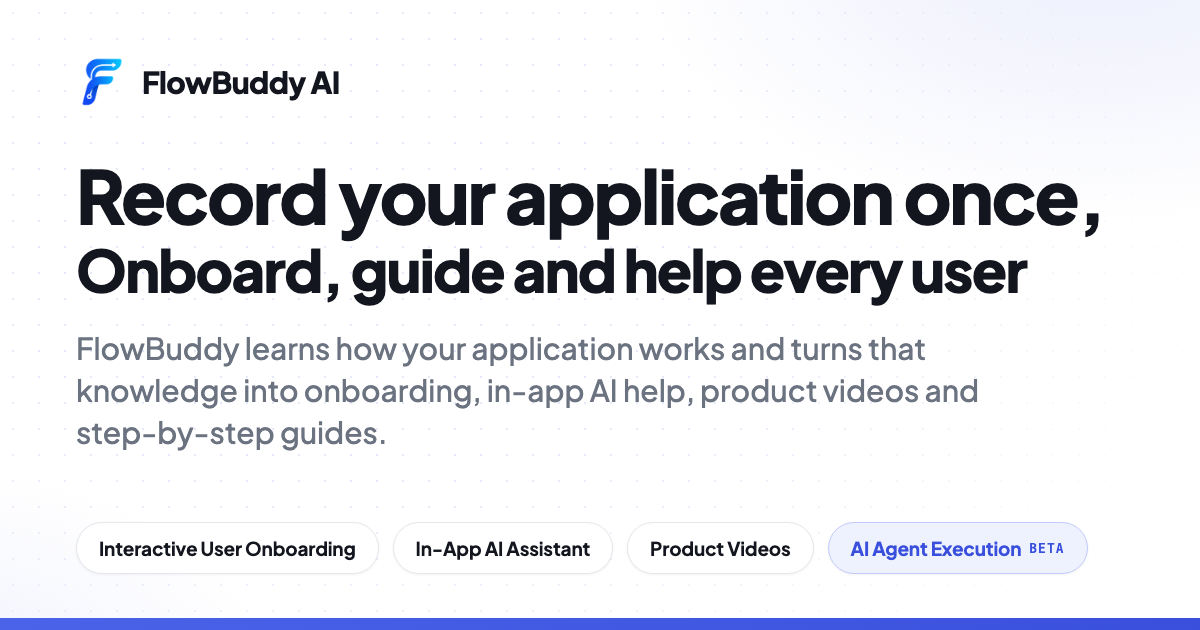
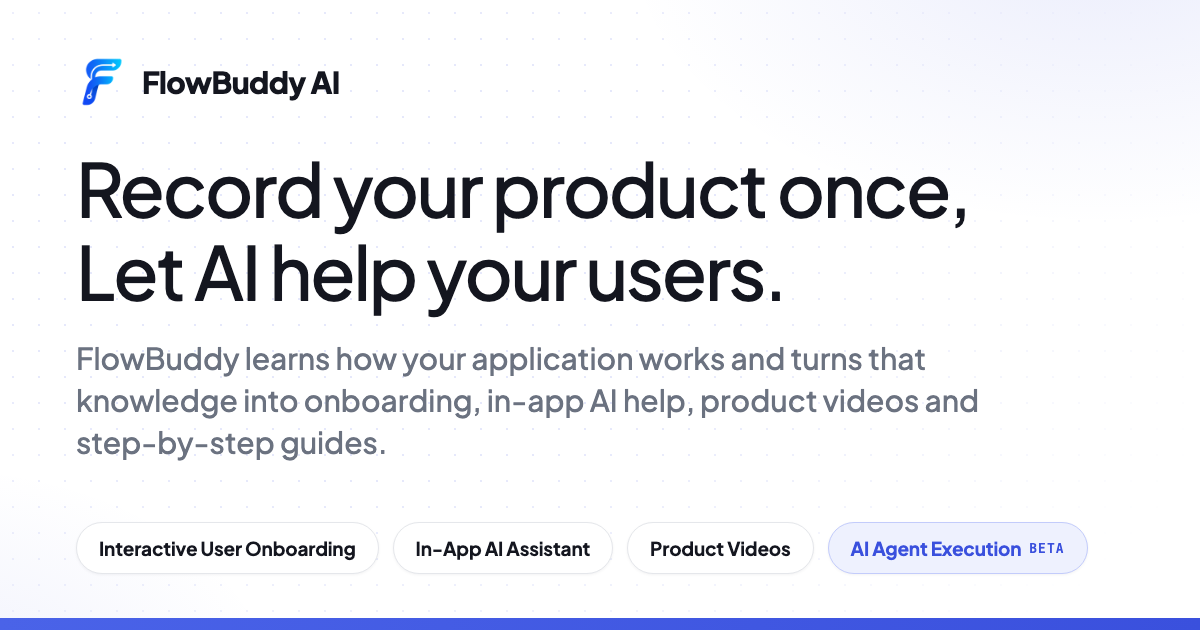
feat(landing): final hero claim, lighter type system, floating capsule header
Hero locks at "Record your product once, / Let AI help your users." —
both lines equal size in the new medium-weight editorial type, which now
runs through every heading site-wide (display classes, card titles, FAQ
rows, CTA panel; mono labels, buttons and product mocks keep their
weight). The header is flat at the top of the page and becomes a
floating rounded capsule once scrolled (pure CSS states + a scroll
toggle; stage-header sticky offsets bumped to clear it). Nav links
dropped from the header; the sparkle "See it in action" widget button
becomes a plain "How it works" section link. Lifecycle stage headers
trimmed to badge + title. SEO/GEO synced: og.png re-rendered in the new
type, meta/llms.txt/alts on the final claim, sitemap lastmods bumped
site-wide.

Changed region(s): [[0.0617, 0.2413, 0.925, 0.5127], [0.0617, 0.5127, 0.8325, 0.7238]]

diff --git a/packages/landing/src/styles/global.css b/packages/landing/src/styles/global.css
@@ -89,20 +89,49 @@ body {
   border-radius: var(--radius-control);
 }
 
+/* ---- Header: flat at the top, floating capsule once scrolled ----------- */
+.fb-header {
+  transition: padding 220ms cubic-bezier(0.2, 0.7, 0.3, 1);
+}
+.fb-headbar {
+  transition:
+    background-color 220ms cubic-bezier(0.2, 0.7, 0.3, 1),
+    border-color 220ms cubic-bezier(0.2, 0.7, 0.3, 1),
+    box-shadow 220ms cubic-bezier(0.2, 0.7, 0.3, 1),
+    border-radius 220ms cubic-bezier(0.2, 0.7, 0.3, 1);
+}
+.fb-header.is-top {
+  padding: 0; /* content realigns with the page's own 1140px column */
+}
+.fb-header.is-top .fb-headbar {
+  border-radius: 0;
+  border-color: transparent;
+  background-color: transparent;
+  box-shadow: none;
+  backdrop-filter: none;
+  -webkit-backdrop-filter: none;
+}
+@media (prefers-reduced-motion: reduce) {
+  .fb-header,
+  .fb-headbar {
+    transition: none;
+  }
+}
+
 /* ---- Marketing type layer ---------------------------------------------- */
 .display-hero {
-  font-weight: 800;
+  font-weight: 500;
   font-size: clamp(2.1rem, 5.2vw, 3.5rem);
-  line-height: 1.07;
-  letter-spacing: -0.025em;
-  color: var(--color-ink);
+  line-height: 1.15;
+  letter-spacing: -0.03em;
+  /* color: var(--color-ink); */
 }
 .display-section {
-  font-weight: 800;
+  font-weight: 500;
   font-size: clamp(1.6rem, 3.2vw, 2.35rem);
-  line-height: 1.12;
-  letter-spacing: -0.02em;
-  color: var(--color-ink);
+  line-height: 1.15;
+  letter-spacing: -0.03em;
+  /* color: var(--color-ink); */
 }
 /* "AI Assistant" hero accent: brand-gradient text with a slow shimmer sweep
    (light stop is brand-200 — a ramp step, not a new hue) + a twinkling spark. */

diff --git a/docs/product/landing-page.md b/docs/product/landing-page.md
@@ -11,7 +11,7 @@
 
 The category-claim homepage ("Application Intelligence Layer for your SaaS", founder brief 2026-08-13) was **superseded 2026-08-24** by a second founder brief: the claim was right at the core but **too technical for buyers** — it earned "I haven't seen this category before" from educated readers and a bounce from a buyer scanning for "will this fix my activation / ticket problem". The split that replaced it:
 
-- **The homepage sells the USP in buyer words, mapped to the user lifecycle.** Hero (locked, founder-approved 2026-08-24, wording and color amended by the founder the same day): the whole H1 in the soft off-black ink — no gradient text, no twinkle spark — line one **"Record your application once,"** line two **"Onboard, guide and help every user"** (no closing period — founder's final wording). Sub (founder's wording — they iterate it directly in the source between sessions; re-read the file before trusting this quote): FlowBuddy learns how your application works and turns that knowledge into the concrete outputs (in-app AI assistant, interactive walkthroughs, product videos, step-by-step guides), always in sync with your product. Value framing throughout is faster / cheaper / better on problems the buyer already has — never the category first.
+- **The homepage sells the USP in buyer words, mapped to the user lifecycle.** Hero (locked, founder-approved 2026-08-24, wording and color amended by the founder the same day): the whole H1 in the soft off-black ink — no gradient text, no twinkle spark — line one **"Record your product once,"** line two **"Let AI help your users."** (FINAL, founder sign-off) — both lines the same size, (founder amendment 2026-08-24, post-launch). Sub (founder's wording — they iterate it directly in the source between sessions; re-read the file before trusting this quote): FlowBuddy learns how your application works and turns that knowledge into the concrete outputs (in-app AI assistant, interactive walkthroughs, product videos, step-by-step guides), always in sync with your product. Value framing throughout is faster / cheaper / better on problems the buyer already has — never the category first.
 - **The category story moved intact to `/application-intelligence-layer`** — the 2026-08-17 category hero verbatim (H1, sub, the layer-language captions on the shared flow diagram), the layer-in-your-stack explainer, a prose definition of "application intelligence layer" (the AEO land-grab now has a dedicated page to land on), and an everything-the-layer-powers grid including the direction-only consumers. Linked from the homepage (under the pinned card: "Under the hood, this is the Application Intelligence Layer"), the FAQ's category answer, and the footer.
 - **The lifecycle is the argument.** The homepage's centrepiece walks one recording through three journey stages — **Activate** (New Users: interactive user onboarding, contextual help & guidance) → **Adopt** (Everyday Users: the in-app AI assistant, AI agent execution in beta) → **Train & Self-serve** (Power Users: autogenerated product videos, step-by-step SOPs, help portal).
 - **Two agent claims, kept distinct on every surface.** FlowBuddy's own **in-product agent execution** is sold as **Beta**, always with the full trust framing: off by default, switched on per workspace, every run starts with the user's explicit consent, narrated, stoppable, outcome-verified. **Third-party agent access** stays *direction*, never available — the rule is the phase's own ([`interop.md`](../build/interop.md) states it; the roadmap says whether it still binds). It no longer appears on the homepage at all; the category page and `/future` carry it.
